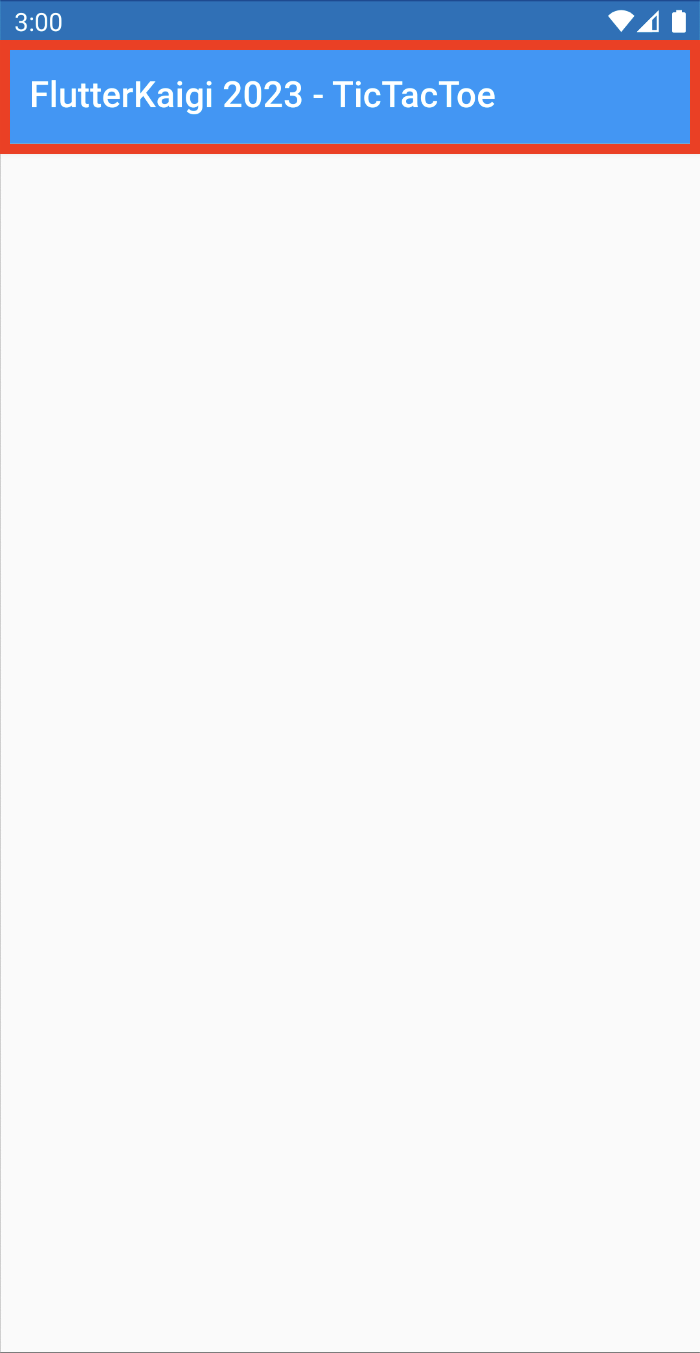
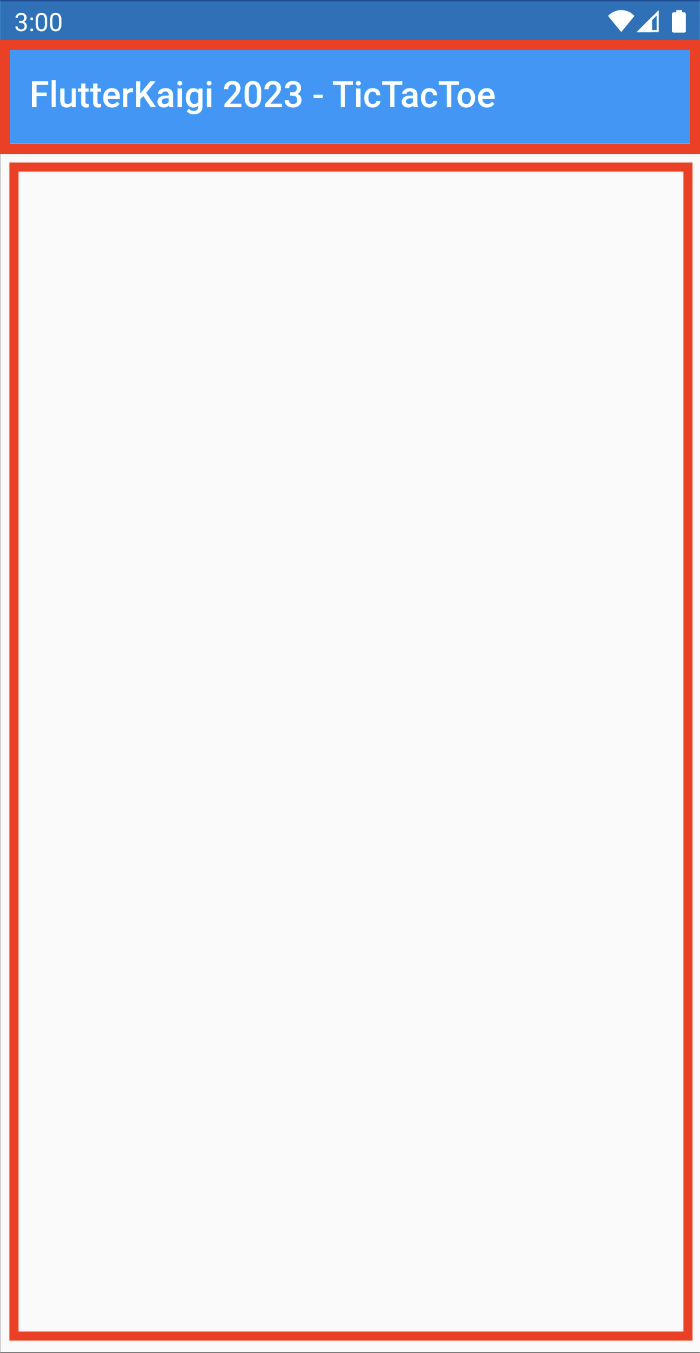
3.1.3章の１に前章UIを追加し、修正画像に空コンテンツの赤枠を追加

Changed region(s): [[0.0, 0.0931, 0.99, 0.9933]]

diff --git a/docs/outline/chapter3.md b/docs/outline/chapter3.md
@@ -77,11 +77,21 @@ class TicTacToe {
 前章までの作業は、flutter プロジェクトの新規作成とゲームロジックのモデルの新規追加までとなっています。  
 このためアプリの UIは、カウンターアプリのままですから、以下の手順で、三目並べを遊ぶための画面を作り上げていきます。
 
-1. [main パッケージ](https://github.com/FlutterKaigi/tic_tac_toe_handson/blob/release/chapter2/lib/main.dart)の修正  
-   プロジェクトにゲーム画面（`Board` ⇒ はじめは空コンテンツ）を新規追加します。  
+1. main パッケージの修正  
+   前章でのアプリの UIは、カウンターアプリのままです。  
+   このためプロジェクトにゲーム画面（`Board` ⇒ はじめは空コンテンツ）を新規追加します。  
    次に元々のカウンターアプリから不要コードの削除とアプリタイトルの修正を行い、  
    ホーム画面を `MyHomePage` からゲーム画面（はじめは空コンテンツ）に差し替えます。  
    <br/>
+   <ul>
+     <a href="https://github.com/FlutterKaigi/tic_tac_toe_handson/blob/release/chapter2/lib/main.dart">修正前 main パッケージ</a><br/>
+     <img src="../images/chapter3/chapter_3_3_0.png" alt="修正前 main パッケージ" style="max-width:40%;">
+     <!--
+     ![修正前 main パッケージ](../images/chapter3/chapter_3_3_0.png)
+     -->
+     <br/>
+     <br/>
+   </ul>
    <ul>
      main パッケージの修正<br/>
      <img src="../images/chapter3/chapter_3_3_1.png" alt="main パッケージの修正" style="max-width:40%;">
